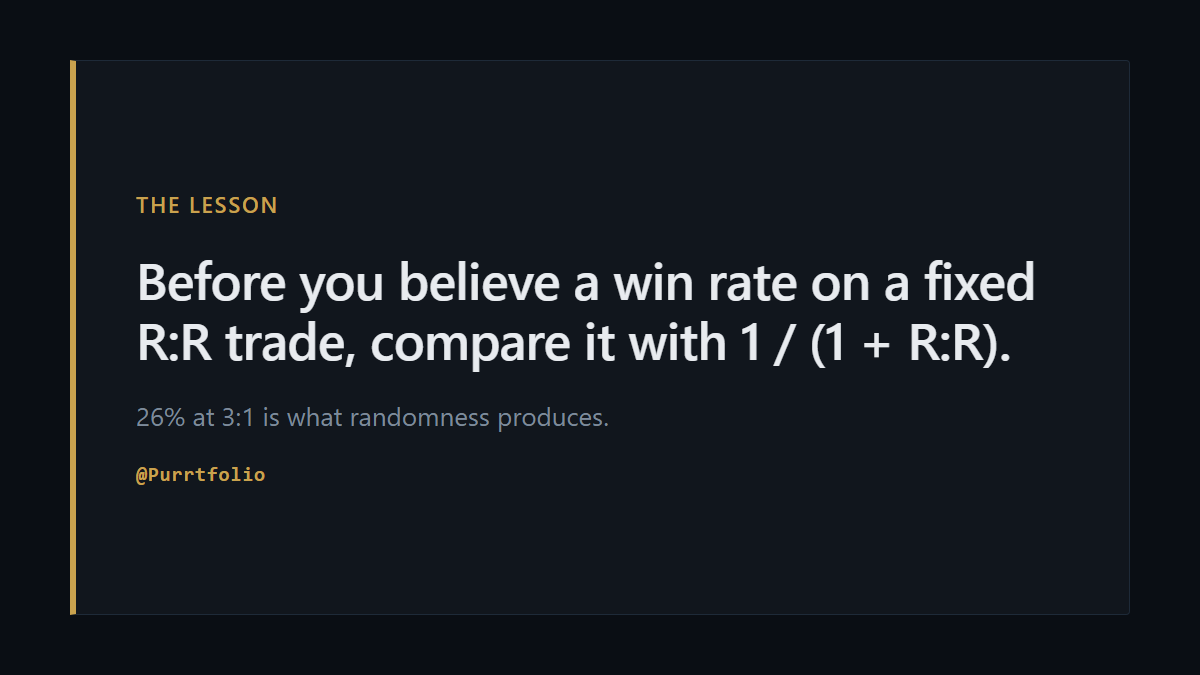
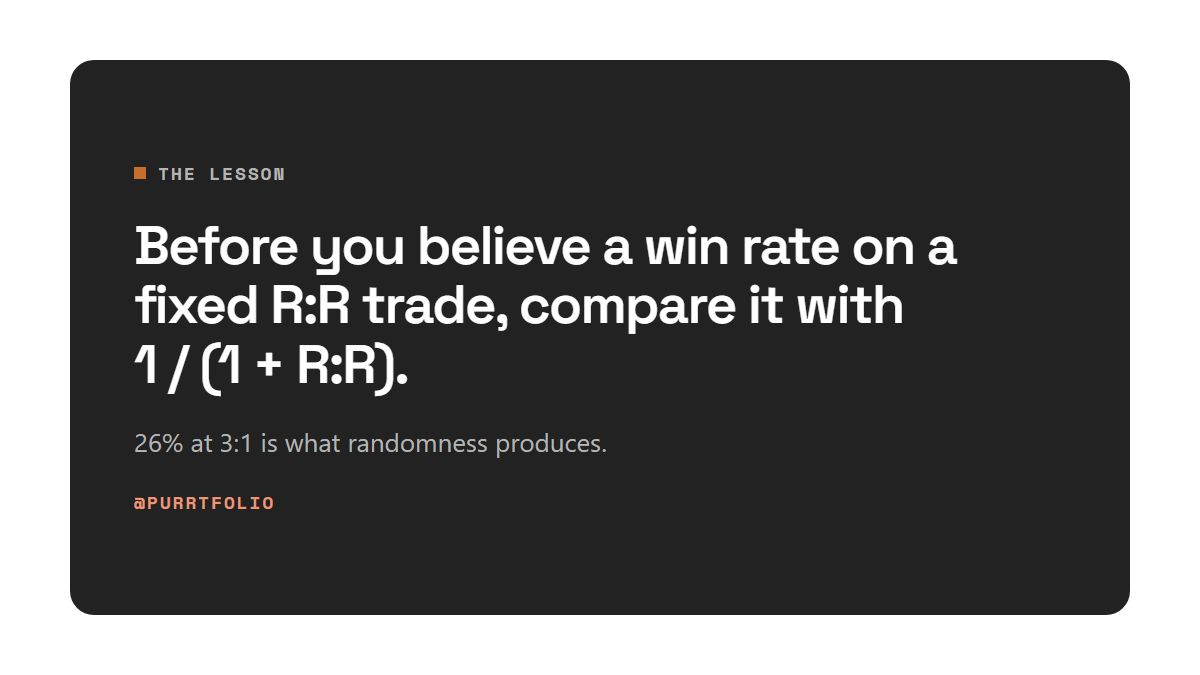
Re-render ORB study cards in the new light theme
make_cards.py now uses the refreshed site palette and fonts (Space
Grotesk / Space Mono) for og.png and the X thread images, and maps the
page diagram's var(--mono) so it renders outside the site stylesheet.
README: the research nav now goes above the masthead.

diff --git a/research/studies/one-minute-orb/make_cards.py b/research/studies/one-minute-orb/make_cards.py
@@ -21,14 +21,18 @@ EDGE = os.environ.get("BROWSER_EXE") or next(
     "msedge")
 
 # The site's theme (static/styles.css) so the cards match the page they preview.
-INK, MUTED, FAINT, RULE = "#E8EBEF", "#7E8A9A", "#7D8B99", "#1E2A38"
-GROUND, SURFACE, SURFACE_2 = "#0A0E14", "#11161D", "#161C25"
-ACCENT, ACCENT_SOFT = "#C9A24E", "rgba(201, 162, 78, 0.12)"
-SERIES, CLAIM, NEUTRAL, WIN, LOSS = ACCENT, "#C7564A", MUTED, "#2E9E6B", "#C7564A"
-CLAIM_BG = "rgba(199, 86, 74, 0.18)"
+# Light theme values; the dark-mode set isn't used for images.
+INK, MUTED, FAINT, RULE = "#222222", "#555555", "#6E6E6E", "#E8E8E8"
+GROUND, SURFACE, SURFACE_2 = "#FFFFFF", "#FAFAFA", "#F2F2F2"
+ACCENT, ACCENT_SOFT = "#B4561C", "rgba(200, 111, 46, 0.10)"
+SERIES, CLAIM, NEUTRAL, WIN, LOSS = "#C86F2E", "#C1272D", MUTED, "#00875A", "#C1272D"
+CLAIM_BG = "#F9E6E7"
 
-SANS = "-apple-system, BlinkMacSystemFont, 'Segoe UI', Roboto, 'Helvetica Neue', Arial, sans-serif"
-MONO = "ui-monospace, SFMono-Regular, 'SF Mono', Menlo, Consolas, monospace"
+SANS = "'Aptos', -apple-system, BlinkMacSystemFont, 'Segoe UI', Roboto, 'Helvetica Neue', Arial, sans-serif"
+DISPLAY = "'Space Grotesk', " + SANS
+MONO = "'Space Mono', ui-monospace, SFMono-Regular, 'SF Mono', Menlo, Consolas, monospace"
+FONTS = ("<link rel='stylesheet' href='https://fonts.googleapis.com/css2?family=Space+Grotesk:wght@400;500;600;700"
+         "&family=Space+Mono:wght@400;700&display=swap'>")
 
 measured = {1: 48.5, 2: 33.6, 3: 26.1, 5: 15.6}
 
@@ -39,7 +43,7 @@ def chart_svg(w=640, h=360):
         return L + (k - 1) / (5.5 - 1) * (w - L - R)
     def y(v):
         return T + (1 - v / 55) * (h - T - B)
-    mono = 'font-family="ui-monospace, SFMono-Regular, Menlo, Consolas, monospace"'
+    mono = f"font-family=\"{MONO}\""
     parts = [f'<svg viewBox="0 0 {w} {h}" width="{w}" height="{h}" xmlns="http://www.w3.org/2000/svg">']
     for v in (0, 10, 20, 30, 40, 50):
         parts.append(f'<line x1="{L}" x2="{w-R}" y1="{y(v):.1f}" y2="{y(v):.1f}" stroke="{RULE}"/>')
@@ -68,7 +72,8 @@ def mechanics_svg():
     svg = re.search(r'(<svg viewBox="0 0 640 300" role="img".*?</svg>)', page, re.S).group(1)
     tokens = {"var(--brass-dim)": ACCENT_SOFT, "var(--brass)": ACCENT, "var(--text-dim)": MUTED,
               "var(--green)": WIN, "var(--red)": LOSS, "var(--text)": INK,
-              "var(--line)": RULE, "var(--panel-2)": SURFACE_2, "var(--panel)": SURFACE}
+              "var(--line)": RULE, "var(--panel-2)": SURFACE_2, "var(--panel)": SURFACE,
+              "var(--mono)": MONO.replace('"', "'")}
     for k, v in tokens.items():
         svg = svg.replace(k, v)
     return svg.replace('<svg viewBox="0 0 640 300"', '<svg viewBox="0 0 640 300" width="1040" height="487"')
@@ -77,17 +82,18 @@ def mechanics_svg():
 BASE_CSS = f"""
 *{{box-sizing:border-box}} html,body{{margin:0}}
 body{{width:{{W}}px;height:{{H}}px;background:{GROUND};color:{INK};font-family:{SANS};overflow:hidden;-webkit-font-smoothing:antialiased}}
-.handle{{font:700 20px {MONO};letter-spacing:.04em;color:{ACCENT}}}
-h1{{font:600 60px/1.05 {SANS};letter-spacing:-.02em;margin:0}}
-h2{{font:600 40px/1.12 {SANS};letter-spacing:-.015em;margin:0}}
-.sub{{font-size:24px;color:{MUTED};line-height:1.35}}
-.tag{{display:inline-block;font:700 16px {MONO};letter-spacing:.06em;text-transform:uppercase;color:{LOSS};background:{CLAIM_BG};border:2px solid {LOSS};padding:7px 11px;border-radius:2px}}
+.handle{{display:flex;align-items:center;gap:12px;font:700 18px {MONO};letter-spacing:.1em;text-transform:uppercase;color:{MUTED}}}
+.handle::before{{content:'';width:12px;height:12px;background:{SERIES};flex:none}}
+h1{{font:600 64px/1.02 {DISPLAY};letter-spacing:-.04em;margin:0}}
+h2{{font:600 42px/1.08 {DISPLAY};letter-spacing:-.03em;margin:0}}
+.sub{{font-size:24px;color:{MUTED};line-height:1.4}}
+.tag{{display:inline-block;font:700 16px {MONO};letter-spacing:.12em;text-transform:uppercase;color:{LOSS};background:{CLAIM_BG};padding:9px 16px;border-radius:999px}}
 """
 
 
 def page(w, h, body):
     css = BASE_CSS.replace("{W}", str(w)).replace("{H}", str(h))
-    return f"<!DOCTYPE html><html><head><meta charset='utf-8'><style>{css}</style></head><body>{body}</body></html>"
+    return f"<!DOCTYPE html><html><head><meta charset='utf-8'>{FONTS}<style>{css}</style></head><body>{body}</body></html>"
 
 
 cards = {
@@ -99,12 +105,12 @@ cards = {
     <h1>Claimed 34–36%.<br><span style="color:{LOSS}">Measured 26.1%.</span></h1>
     <div class="sub">The one-minute ORB scalp at 3:1 wins about what a coin flip does.</div>
   </div>
-  <div style="background:{SURFACE};border:1px solid {RULE};border-radius:4px;padding:14px">{chart_svg(560, 360)}</div>
+  <div style="background:{SURFACE};border:1px solid {RULE};border-radius:16px;padding:14px">{chart_svg(560, 360)}</div>
 </div>"""),
     OUT_X / "1-how-it-works.png": (1200, 675, f"""
 <div style="padding:40px 56px;display:grid;gap:18px">
   <div style="display:flex;justify-content:space-between;align-items:baseline"><h2>How the one-minute ORB scalp works</h2><div class="handle">@Purrtfolio</div></div>
-  <div style="background:{SURFACE};border:1px solid {RULE};border-radius:4px;padding:12px 30px;justify-self:center">{mechanics_svg()}</div>
+  <div style="background:{SURFACE};border:1px solid {RULE};border-radius:16px;padding:12px 30px;justify-self:center">{mechanics_svg()}</div>
 </div>"""),
     OUT_X / "2-coin-flip.png": (1200, 675, f"""
 <div style="padding:40px 56px;display:grid;grid-template-columns:420px 1fr;gap:30px;align-items:center;height:100%">
@@ -113,15 +119,15 @@ cards = {
     <h2>Every measured win rate sits on the coin-flip curve</h2>
     <div class="sub">A 3:1 bracket on a random walk wins 1 / (1 + 3) = 25%. This setup won 26.1% across 544 trades on real tick data.</div>
   </div>
-  <div style="background:{SURFACE};border:1px solid {RULE};border-radius:4px;padding:14px">{chart_svg(640, 420)}</div>
+  <div style="background:{SURFACE};border:1px solid {RULE};border-radius:16px;padding:14px">{chart_svg(640, 420)}</div>
 </div>"""),
     OUT_X / "3-lesson.png": (1200, 675, f"""
 <div style="height:100%;padding:60px 70px;display:grid">
-<div style="background:{SURFACE};border:1px solid {RULE};border-left:6px solid {ACCENT};border-radius:0 4px 4px 0;padding:0 60px;display:grid;align-content:center;gap:30px">
-  <div style="font:600 22px {SANS};color:{ACCENT};text-transform:uppercase;letter-spacing:.08em">The lesson</div>
-  <div style="font:600 52px/1.15 {SANS};letter-spacing:-.015em;max-width:980px">Before you believe a win rate on a fixed R:R trade, compare it with 1 / (1 + R:R).</div>
-  <div style="font-size:26px;color:{MUTED}">26% at 3:1 is what randomness produces.</div>
-  <div style="font:700 20px {MONO};letter-spacing:.04em;color:{ACCENT}">@Purrtfolio</div>
+<div style="background:{INK};color:{GROUND};border-radius:24px;padding:0 64px;display:grid;align-content:center;gap:30px">
+  <div class="handle" style="color:#B4B4B4">The lesson</div>
+  <div style="font:600 54px/1.1 {DISPLAY};letter-spacing:-.03em;max-width:980px">Before you believe a win rate on a fixed R:R trade, compare it with <span style="white-space:nowrap">1 / (1 + R:R).</span></div>
+  <div style="font-size:26px;color:#B4B4B4">26% at 3:1 is what randomness produces.</div>
+  <div style="font:700 18px {MONO};letter-spacing:.1em;color:#E89877">@PURRTFOLIO</div>
 </div>
 </div>"""),
 }
@@ -130,7 +136,7 @@ for out, (w, h, body) in cards.items():
     src = SCR / f"card_{out.stem}.html"
     src.write_text(page(w, h, body), encoding="utf-8")
     subprocess.run([EDGE, "--headless=new", "--disable-gpu", "--hide-scrollbars",
-                    f"--window-size={w},{h}", "--virtual-time-budget=4000",
+                    f"--window-size={w},{h}", "--virtual-time-budget=8000",
                     f"--screenshot={out}", src.as_uri()], check=True,
                    stdout=subprocess.DEVNULL, stderr=subprocess.DEVNULL)
     print(out, out.stat().st_size)

diff --git a/research/README.md b/research/README.md
@@ -26,8 +26,8 @@ Research page linked from the site's main nav), newest first.
 
 Research pages use the site's own theme so they read as part of the app: link
 `static/styles.css` (tokens, masthead, nav, tables) and `static/research/research.css`
-(article layout), and put `<nav class="nav" data-site-nav data-root="../../">` under the
-masthead with `js/site-nav.js` to render the app's nav. Colour with the site tokens
+(article layout), and put `<nav class="nav" data-site-nav data-root="../../">` first in
+`.app` (above the masthead) with `js/site-nav.js` to render the app's nav. Colour with the site tokens
 (`--brass`, `--red`, `--green`, `--text-dim`, `--panel`…); copy the one-minute ORB page
 as the template. `make_cards.py` uses the same palette for `og.png`.
 
